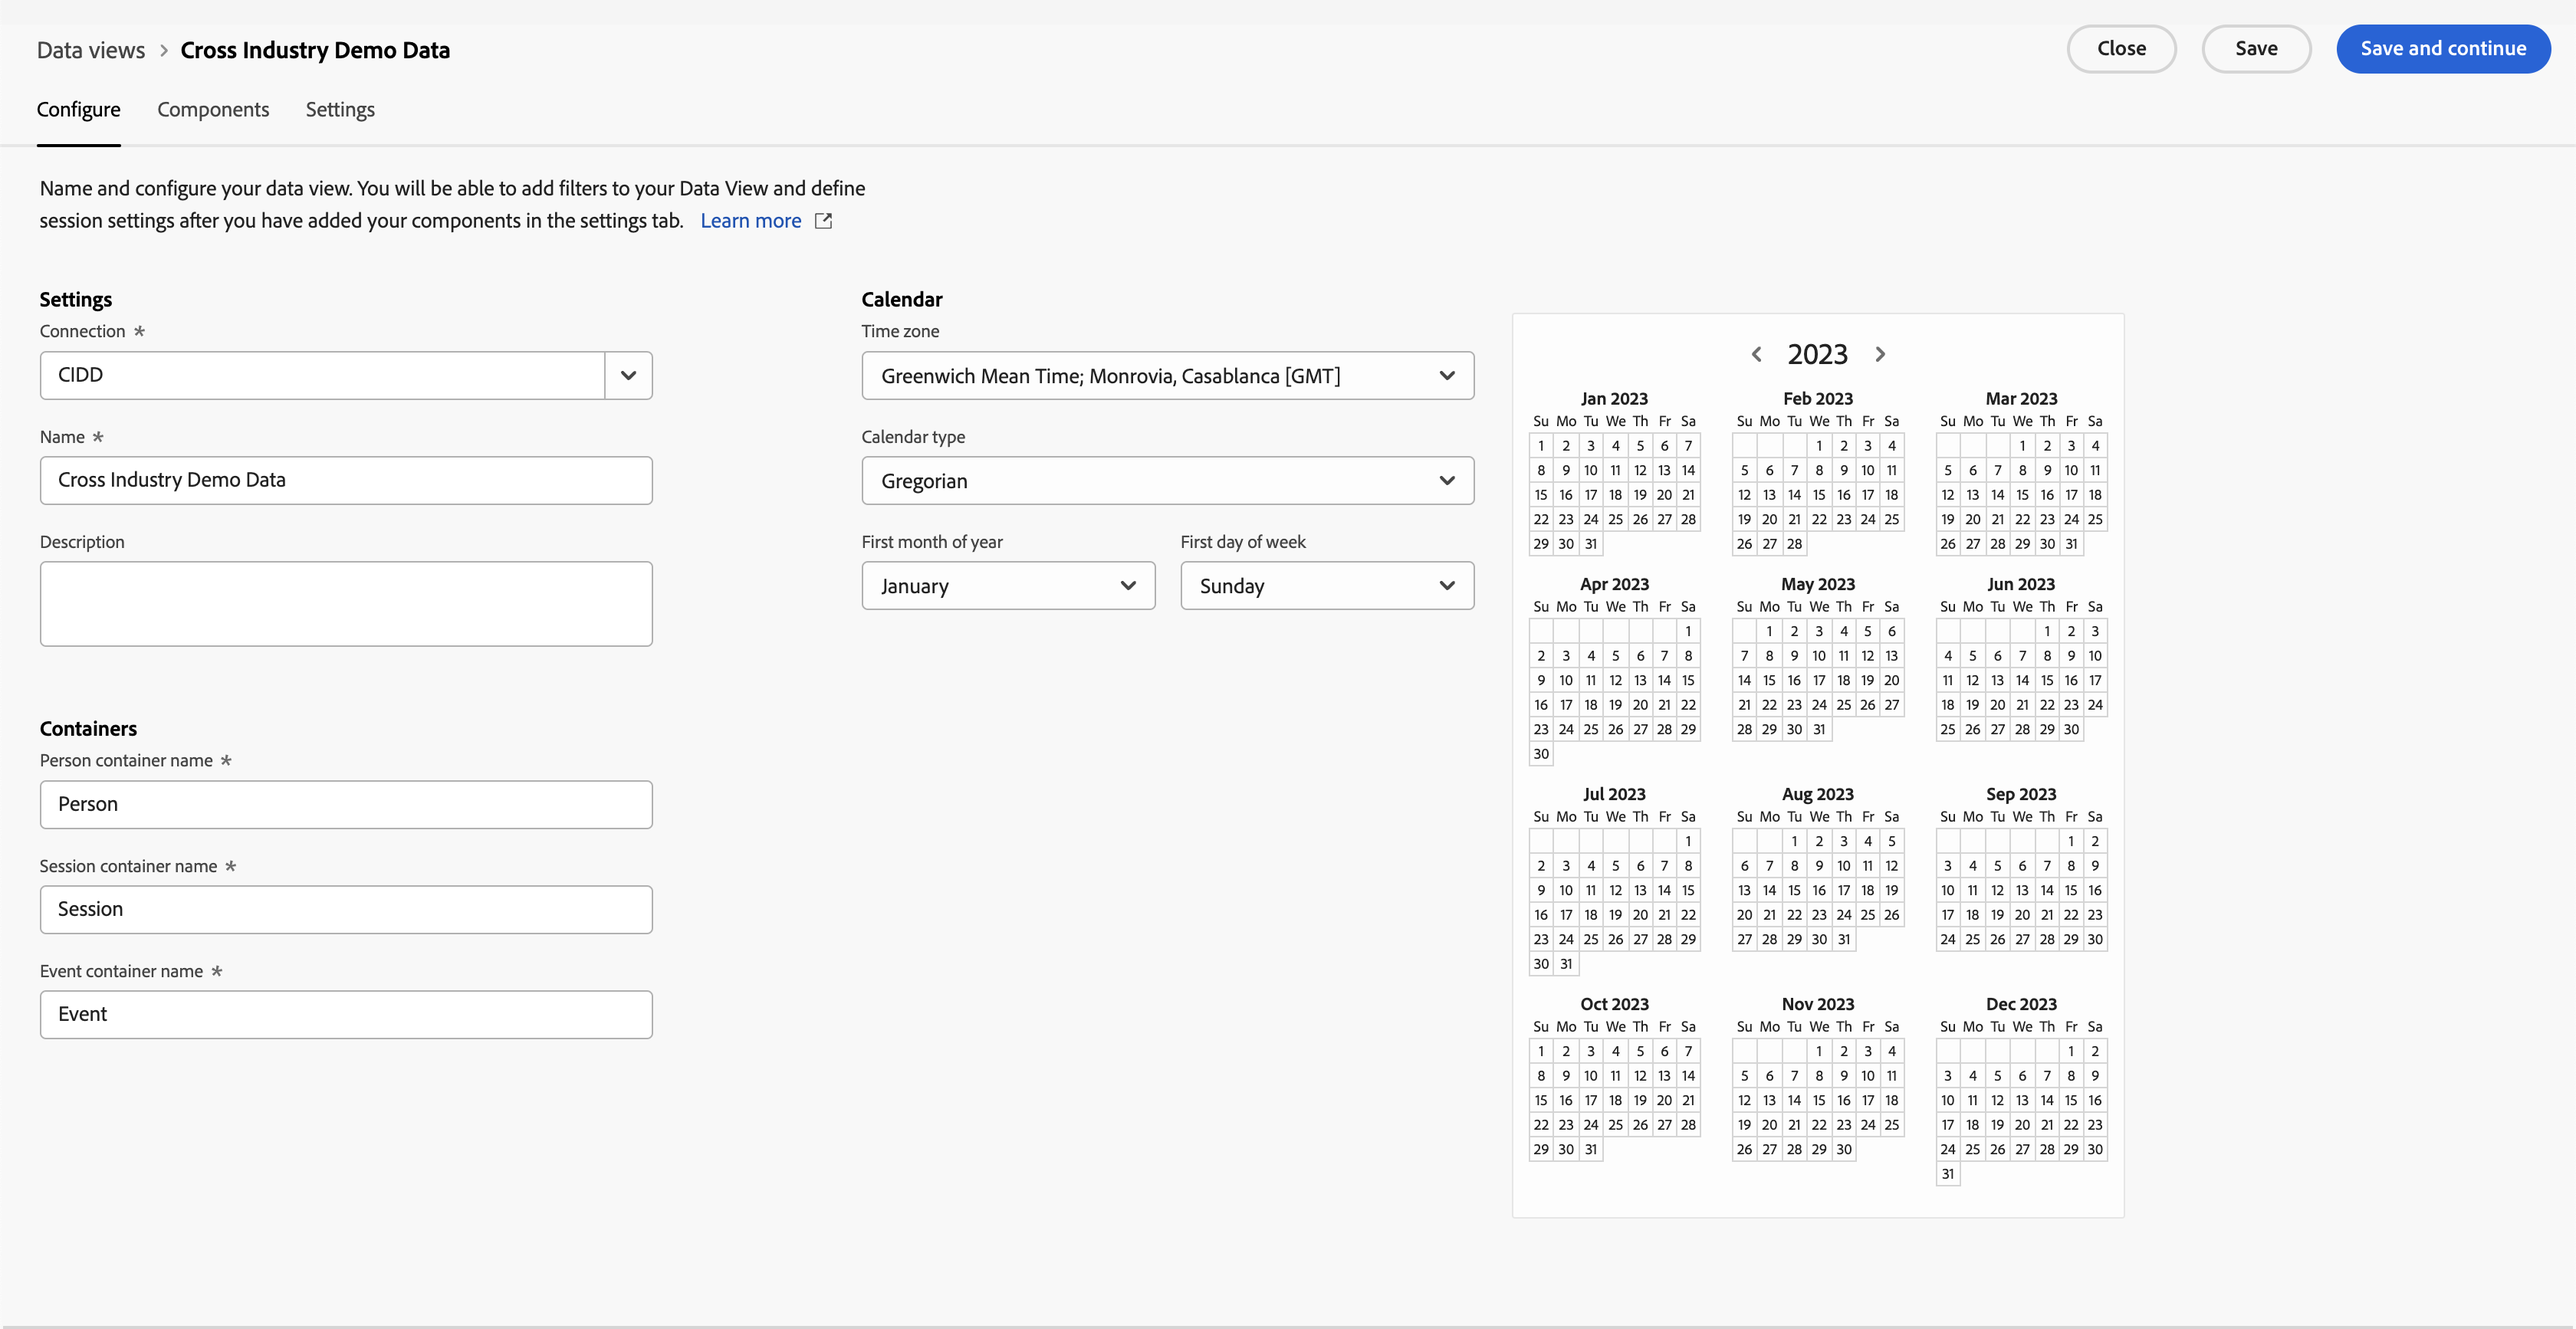
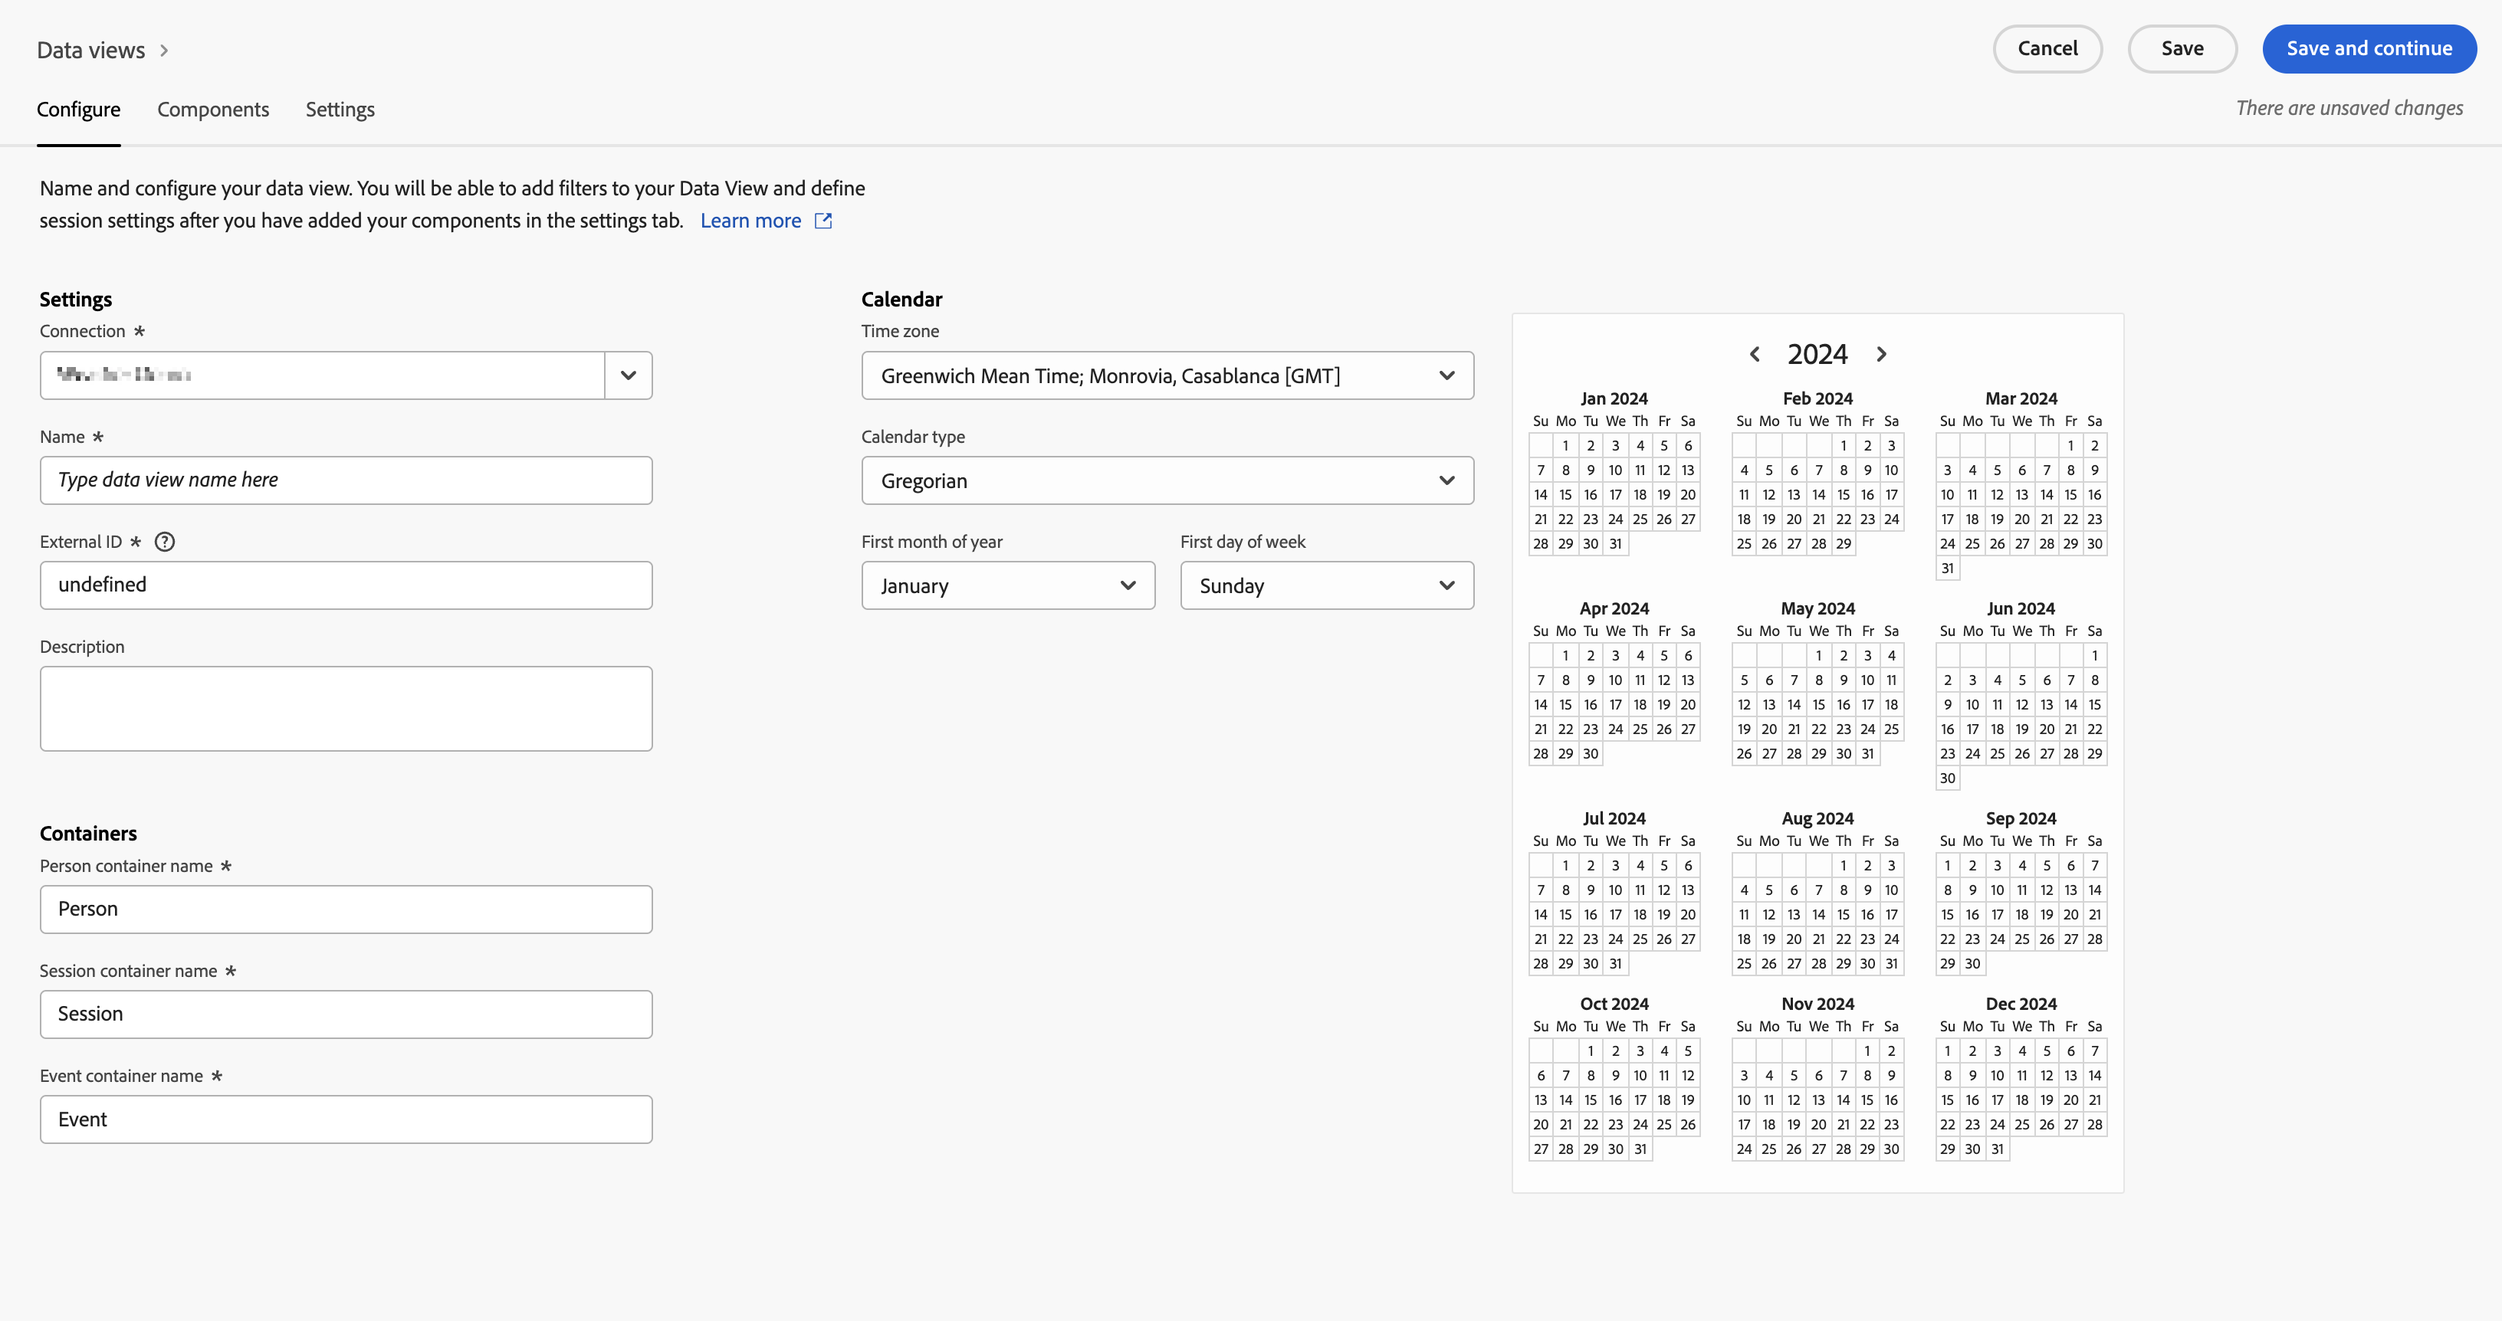
Updated screenshot
Wit external ID.

diff --git a/help/data-views/create-dataview.md b/help/data-views/create-dataview.md
@@ -39,7 +39,7 @@ Provides overarching settings for the data view.
 | --- | --- |
 | [!UICONTROL Connection] | This field links the data view to the connection that you established earlier, which contains one or more Adobe Experience Platform datasets. |
 | [!UICONTROL Name] | Required. The name of the data view. This value appears in the top-right drop-down list in Analysis Workspace. |
-| External ID | Required. The name of data view you can use in external sources, such as business intelligence tools. Default is `unspecified`. If you do not specify an external ID, the name will be generated from the Name of the data view, replacing spaces with underscores. |
+| [!UICONTROL External ID] | Required. The name of data view you can use in external sources, such as business intelligence tools. Default is `unspecified`. If you do not specify an external ID, the name will be generated from the Name of the data view, replacing spaces with underscores. |
 | [!UICONTROL Description] | Optional. Adobe recommends a detailed description so that users understand why the data view exists and who it is designed for. |
 
 {style="table-layout:auto"}
